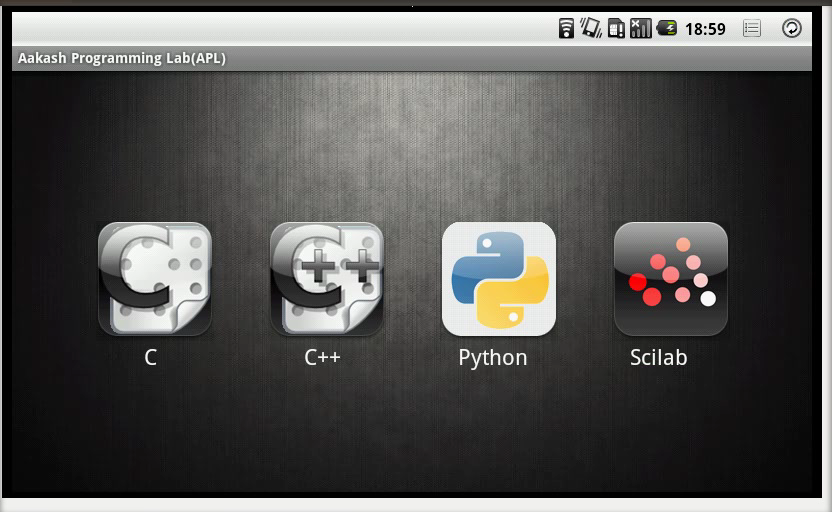
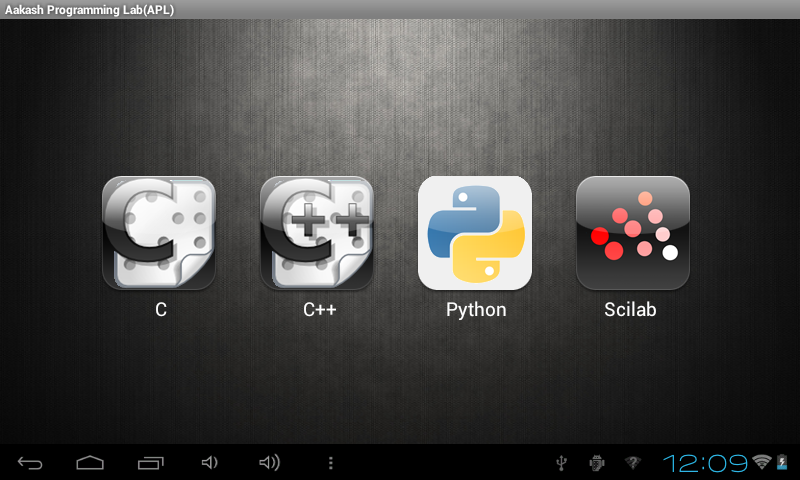
Subject: C++ tutorial modified for ICS
Description:

1) added new screenshots
2) modified user manual for ICS

diff --git a/individual/cptutorial/user_manual.rst b/individual/cptutorial/user_manual.rst
@@ -23,7 +23,7 @@ Overview
    :align: center
    :alt: apl main page
    :width: 400px 
-   :height: 250px
+   :height: 240px
 
    `APL main page`
 	   
@@ -33,14 +33,14 @@ Overview
     - *Text editor*: is located on the left hand side. One can write
       source code in text editor. If you click on the text editor
       area, a virtual keyboard will appear and one can use it to write
-      programs. Click ``back button`` (located at right top corner on
+      programs. Click ``back button`` (located at bottom left corner on
       Android status bar) to close the virtual keyboard.
 
       .. figure:: images/text_area_console_output.png
 	 :align: center
 	 :alt: text area and output console
 	 :width: 400px 
-	 :height: 250px
+	 :height: 240px
 
 	 `Text editor with console output`
       
@@ -69,10 +69,9 @@ Overview
 
 	 `Execute button`
     
-    - *Example Programs*: Clicking on the ``option button`` at top
-      right corner, next to the ``back button`` will pop up the
-      horizontal menubar from the bottom. One of the option is
-      ``Example`` programs.
+    - *Example Programs*: Clicking on the ``option button`` at bottom
+      (looks like three vertical dots), will pop up the horizontal
+      menubar from the bottom. One of the option is ``Example`` menu.
       
       .. figure:: images/option_button.png
 	 :align: center
@@ -85,8 +84,8 @@ Overview
       .. figure:: images/horizontal_menubar.png
 	 :align: center
 	 :alt: horizontal menubar
-	 :width: 400px 
-	 :height: 40px	
+	 :width: 450px 
+	 :height: 35px	
 		 
 	 `Menu bar with options`
     
@@ -108,20 +107,20 @@ Overview
       example programs. Click on any example to select. The example
       code will appear on text editor. Then click on the execute
       button to run. Output will appear in Console output. One can
-      optionally edit the code in text editor and execute again.
+      optionally edit the code in text editor and execute it again.
 
       .. figure:: images/choose_ur_file.png
 	 :align: center
-	 :alt: choose examples(scilab)
-	 :width: 400px 
+	 :alt: choose examples(python)
+	 :width: 300px 
 	 :height: 150px	
 
 	 `List of examples`
 
-4. Scilab has one extra component, i.e *plot* option. This will appear
-   at the bottom-left of the page. Check this option if your code has
-   any plots involved. Uncheck when not needed. Most examples provided
-   in Scilab have graphical output.
+4. Scilab has one extra component, i.e *plot* option. It is located at
+   top left corner of the page. Check this option if your code has any
+   plots involved. Uncheck when not needed. Most examples provided in
+   Scilab have graphical output.
 
    .. figure:: images/plot_icon.png
       :align: center
@@ -133,8 +132,8 @@ Overview
    ``back button`` which will land you to ``Main page`` (step 2).
 
 6. To exit ``APL`` one has to click ``back button`` twice, this will pop
-   up one confirmation dialog box. Click ``Yes`` to exit Aakash
-   Programming Lab
+   up one confirmation dialog box. Click ``Yes`` to exit `Aakash
+   Programming Lab`
 
    .. figure:: images/exit.png
       :align: center
